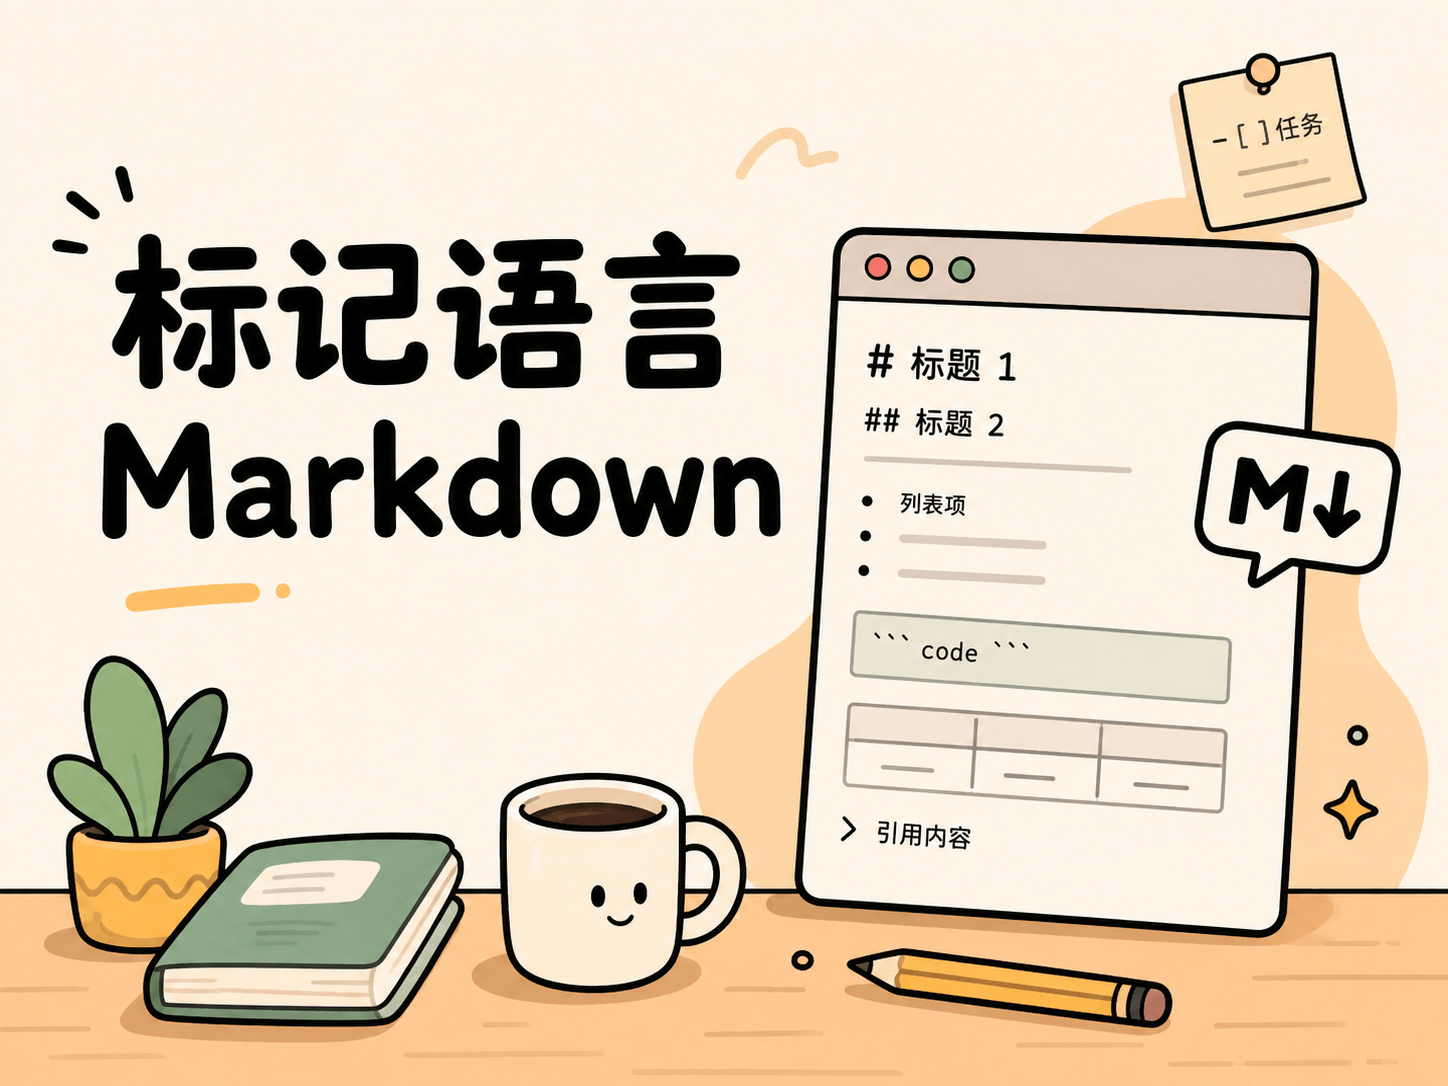
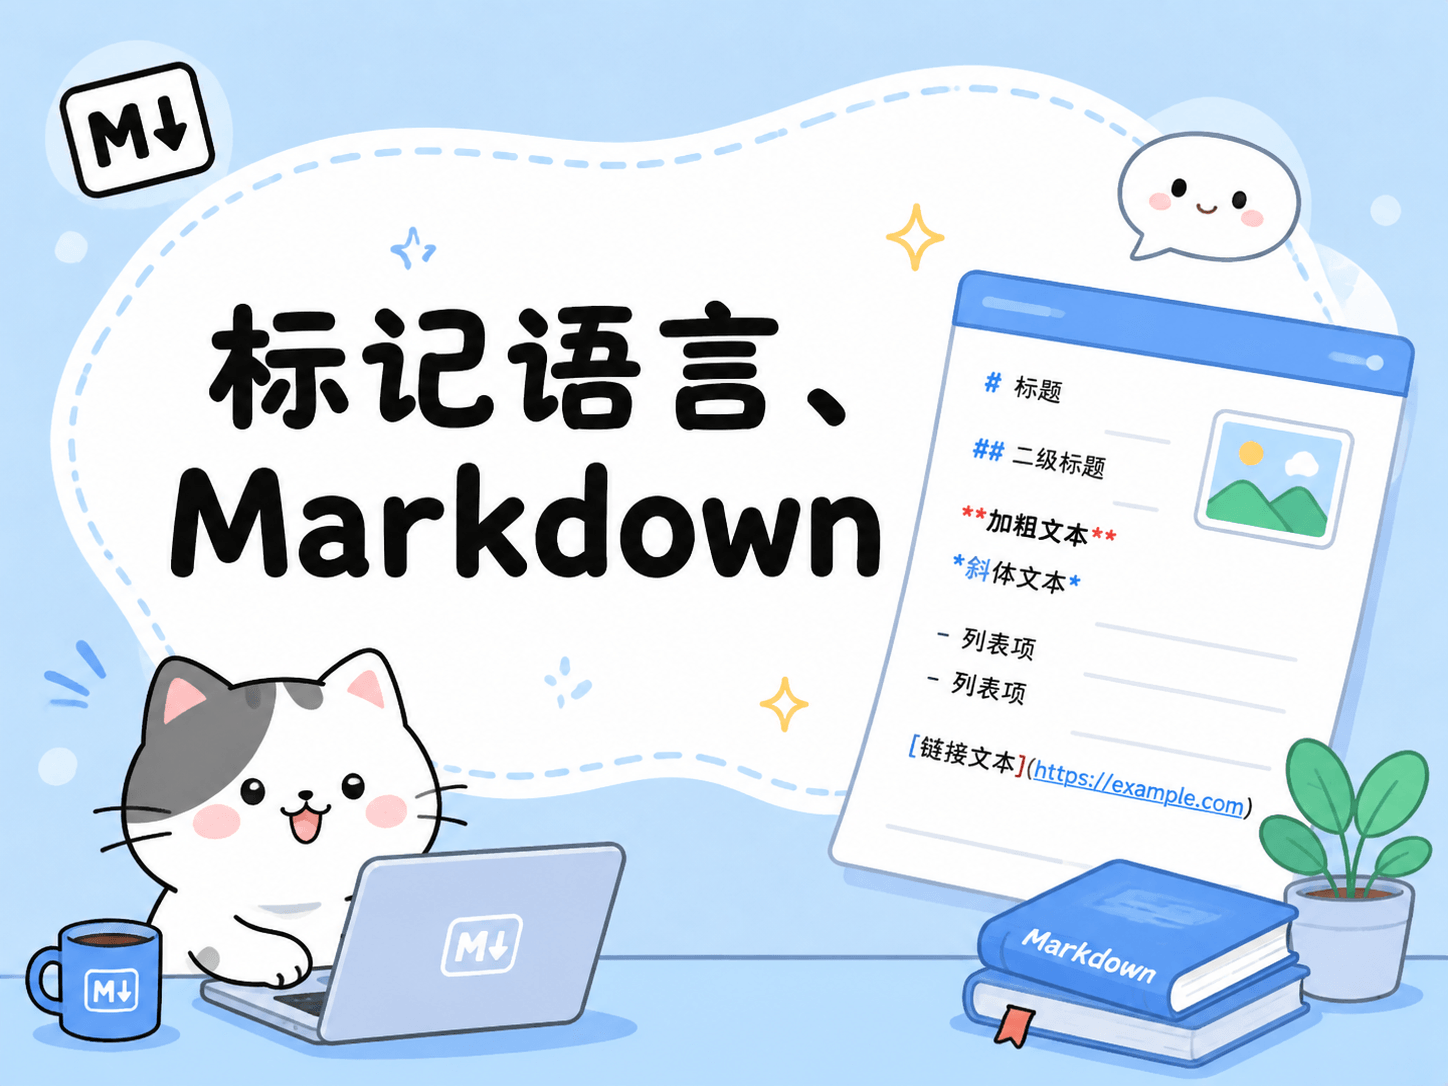
feat: new docs

diff --git a/source/_posts/markdown.md b/source/_posts/markdown.md
@@ -1,8 +1,8 @@
 ---
 title: MD 参考文档
-date: 2026-07-30
-updated: 2026-07-30
-top_img: /img/series/markdown.png
+date: 2026-08-09
+updated: 2026-08-09
+top_img: /img/series/markdown.jpg
 cover: /img/covers/markdown.png
 tags:
   - Markdown

diff --git a/source/_posts/algorithm/sorting.md b/source/_posts/algorithm/sorting.md
@@ -1,0 +1,12 @@
+---
+title: 排序算法
+date: 2026-08-15
+updated: 2026-08-15
+top_img: /img/series/algorithm.jpg
+cover: /img/covers/sorting.png
+series: algorithm
+categories:
+  - 算法原理
+---
+
+

diff --git a/source/_posts/algorithm/searching.md b/source/_posts/algorithm/searching.md
@@ -1,0 +1,10 @@
+---
+title: 搜索算法
+date: 2026-08-10
+updated: 2026-08-10
+top_img: /img/series/algorithm.jpg
+cover: /img/covers/searching.png
+series: algorithm
+categories:
+  - 算法原理
+---

diff --git a/source/docs/index.md b/source/docs/index.md
@@ -2,7 +2,7 @@
 title: 写作规范
 date: 2026-05-12
 updated: 2026-08-28
-top_img: /img/index.jpg
+top_img: /img/series/default.jpg
 ---
 
 ## 基本规则

diff --git a/source/categories/index.md b/source/categories/index.md
@@ -1,6 +1,6 @@
 ---
 title: 分类
 date: 2026-05-13
-top_img: /img/index.jpg
+top_img: /img/series/default.jpg
 type: categories
 ---

diff --git a/source/tags/index.md b/source/tags/index.md
@@ -1,6 +1,6 @@
 ---
 title: 标签
 date: 2026-05-15
-top_img: /img/index.jpg
+top_img: /img/series/default.jpg
 type: tags
 ---
